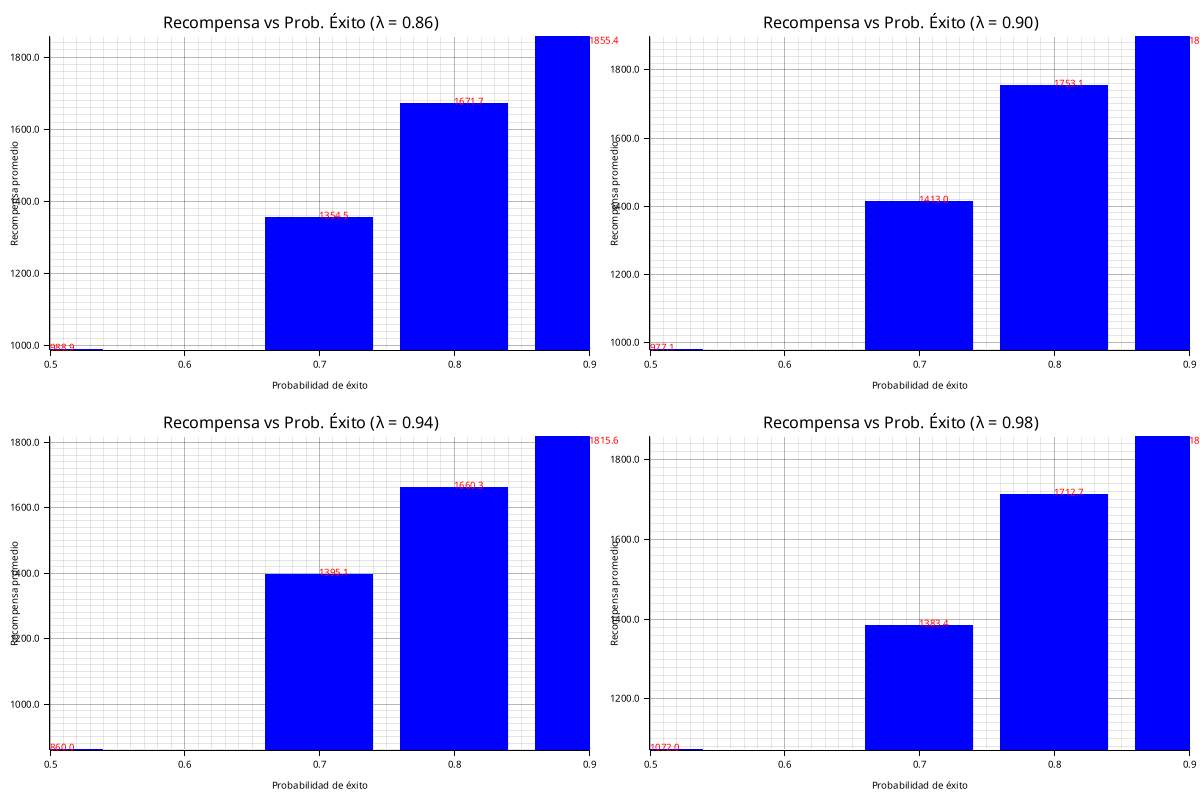
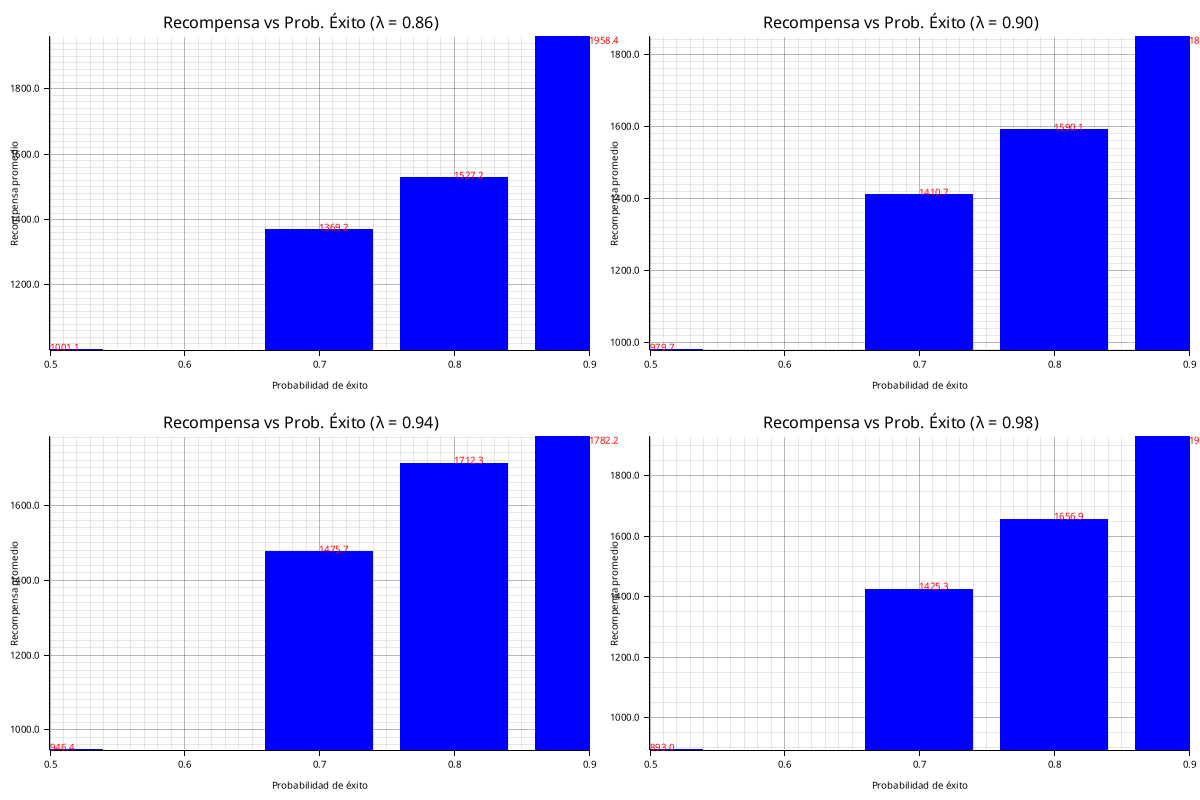
feat: :sparkles: Finalizado falta Comentar

diff --git a/src/main.rs b/src/main.rs
@@ -11,8 +11,8 @@ mod transition_matrices;
 
 use config::obtener_recompensas;
 use mdp_model::value_iteration;
-use plot_utils::{graficar_resultados_finales, leer_recompensas_csv};
-use robustness::evaluar_robustez;
+use plot_utils::{graficar_recompensas_barras, graficar_resultados_finales, leer_recompensas_csv};
+use robustness::{construir_modelo_ruido, MODELOS_ROBUSTEZ};
 use simulation::{ejecutar_simulacion, simulacion_1000_pasos};
 use transition_matrices::guardar_matrices_transicion_csv;
 
@@ -21,26 +21,19 @@ async fn main() {
     let factores_landa = vec![0.86, 0.90, 0.94, 0.98];
     let probabilidades_exito = vec![0.5, 0.7, 0.8, 0.9];
 
-    let mut graficos_robustez = vec![];
     let mut resumen_1000_pasos = vec![];
-
-    let mut resumen_recompensas = vec![]; // Añade esta línea
+    let mut politicas_optimas = vec![]; // Para guardar las políticas óptimas
     let mut recompensas_map = obtener_recompensas();
 
     for &landa in &factores_landa {
-        // --- Todo esto debe estar dentro del ciclo de landa ---
         println!("\n=== Ejecutando Value Iteration para λ = {:.2} ===", landa);
         println!("Resultados de simulaciones de 1000 pasos:");
         println!("----------------------------------------");
         let (valores, politica) = value_iteration(landa, Some(0.001), None);
+
         for &prob in &probabilidades_exito {
             let (metas, peligros, recompensa) = simulacion_1000_pasos(&politica, 1000, prob);
-            // Guarda en ambos vectores
-
-            // Guardamos en ambos vectores manteniendo consistencia
-            let dato = (landa, prob, recompensa);
-            resumen_1000_pasos.push(dato);
-            resumen_recompensas.push(dato);
+            resumen_1000_pasos.push((landa, prob, recompensa));
 
             println!(
                 "λ={:.2} - Prob éxito {:.0}% Recompensa: {:.2} (Meta: {}, Peligros: {})",
@@ -50,7 +43,6 @@ async fn main() {
                 metas,
                 peligros
             );
-            resumen_1000_pasos.push((landa, prob, recompensa));
         }
         println!("\nValor de los estados:");
         let mut keys: Vec<_> = valores.keys().collect();
@@ -91,12 +83,51 @@ async fn main() {
         println!("\n→ Iniciando simulación visual (siguiendo política óptima)...");
         ejecutar_simulacion(&politica, 100, &mut recompensas_map, landa).await;
 
-        // Evaluar robustez
-        let resultados = evaluar_robustez(&politica, landa);
-        graficos_robustez.push((landa, resultados));
+        // Guardar política para evaluación de robustez
+        politicas_optimas.push((landa, politica.clone()));
     }
 
-    // Guardar CSV de simulación real
+    // === EVALUACIÓN DE ROBUSTEZ CON MODELOS ESPECÍFICOS ===
+    println!("\n=== EVALUANDO ROBUSTEZ CON MODELOS ESPECÍFICOS ===");
+    println!("Evaluando con: (10%,80%,10%), (5%,90%,5%), (15%,70%,15%), (25%,50%,25%)");
+
+    // Evaluar robustez para cada política óptima
+    for (lambda, _politica_base) in &politicas_optimas {
+        println!("\n--- Evaluación robustez λ={:.2} ---", lambda);
+
+        for (izq, centro, der) in MODELOS_ROBUSTEZ.iter() {
+            let modelo_ruido = construir_modelo_ruido(*izq, *centro, *der);
+            let (_valores, politica_adaptada) =
+                value_iteration(*lambda, Some(0.001), Some(&modelo_ruido));
+
+            // Simular 1000 pasos con la política adaptada
+            let (metas, peligros, _recompensa) =
+                simulacion_1000_pasos(&politica_adaptada, 1000, *centro);
+
+            println!(
+                "Modelo ({:.0}%,{:.0}%,{:.0}%): {} metas, {} peligros",
+                izq * 100.0,
+                centro * 100.0,
+                der * 100.0,
+                metas,
+                peligros
+            );
+        }
+    }
+
+    // === GUARDADO DE DATOS Y GRÁFICOS ===
+    println!("\n=== GENERANDO GRÁFICOS Y GUARDANDO DATOS ===");
+
+    // Guardar los datos de simulaciones de 1000 pasos en CSV
+    experimentos::guardar_recompensas_csv(&resumen_1000_pasos, "datos_1000_pasos.csv")
+        .expect("Error guardando datos de 1000 pasos");
+
+    // Generar gráfico de barras para simulaciones de 1000 pasos
+    if let Err(e) = graficar_recompensas_barras(&resumen_1000_pasos) {
+        eprintln!("Error al generar gráfico de barras: {:?}", e);
+    }
+
+    // Guardar CSV de simulación más completa usando experimentos
     experimentos::simular_y_guardar_csv(
         &factores_landa,
         &probabilidades_exito,
@@ -105,23 +136,10 @@ async fn main() {
         "resultados_simulacion.csv",
     );
 
-    // Guardar CSV - versión optimizada
-    experimentos::guardar_recompensas_csv(&resumen_recompensas, "resultados_simulacion_1000.csv")
-        .expect("Error al guardar CSV");
-
-    // Leer CSV y graficar usando esos datos reales
-    let resumen_recompensas = leer_recompensas_csv("resultados_simulacion.csv");
-
-    // Leer CSV y graficar usando esos datos reales
-    let resumen_recompensas_1000 = leer_recompensas_csv("resultados_simulacion_1000.csv");
-
-    // Graficar los resultados en barras
-    if let Err(e) = plot_utils::graficar_recompensas_barras(&resumen_recompensas_1000) {
-        eprintln!("Error al graficar barras: {:?}", e);
-    }
-
-    if let Err(e) = graficar_resultados_finales(&graficos_robustez, &resumen_recompensas) {
-        eprintln!("Error al graficar resultados: {:?}", e);
+    // Leer CSV y generar gráficos finales de robustez
+    let resumen_recompensas_csv = leer_recompensas_csv("resultados_simulacion.csv");
+    if let Err(e) = graficar_resultados_finales(&resumen_recompensas_csv) {
+        eprintln!("Error al graficar resultados finales: {:?}", e);
     }
 
     guardar_matrices_transicion_csv();

diff --git a/src/plot_utils.rs b/src/plot_utils.rs
@@ -23,49 +23,8 @@ pub fn leer_recompensas_csv(path: &str) -> Vec<(f64, f64, f64)> {
 }
 
 pub fn graficar_resultados_finales(
-    graficos_robustez: &Vec<(f64, Vec<(String, usize)>)>,
     resumen_recompensas: &Vec<(f64, f64, f64)>,
 ) -> Result<(), Box<dyn std::error::Error>> {
-    // === Primer gráfico: robustez ===
-    let root = BitMapBackend::new("robustez_politicas.png", (960, 640)).into_drawing_area();
-    root.fill(&WHITE)?;
-
-    let n = graficos_robustez.len();
-    let cols = 2;
-    let rows = (n as f64 / cols as f64).ceil() as usize;
-    let areas = root.split_evenly((rows, cols));
-
-    for (i, (landa, resultados)) in graficos_robustez.iter().enumerate() {
-        if i >= areas.len() {
-            break;
-        }
-        let area = &areas[i];
-        let etiquetas: Vec<String> = resultados.iter().map(|r| r.0.clone()).collect();
-        let cambios: Vec<usize> = resultados.iter().map(|r| r.1).collect();
-        let max_val = *cambios.iter().max().unwrap_or(&0) as i32;
-
-        let mut chart = ChartBuilder::on(area)
-            .caption(format!("λ = {:.2}", landa), ("sans-serif", 20))
-            .margin(10)
-            .x_label_area_size(30)
-            .y_label_area_size(30)
-            .build_cartesian_2d(0..etiquetas.len() as i32, 0..(max_val + 1))?;
-
-        chart.configure_mesh().x_labels(5).draw()?;
-        chart
-            .configure_mesh()
-            .x_desc("Nivel de ruido")
-            .y_desc("Cambios en política")
-            .draw()?;
-
-        chart.draw_series(cambios.iter().enumerate().map(|(i, val)| {
-            Rectangle::new(
-                [(i as i32, 0), ((i + 1) as i32, *val as i32)],
-                BLUE.mix(0.5).filled(),
-            )
-        }))?;
-    }
-
     // === Tercer gráfico: recompensa media según lambda y éxito ===
     let root3 = BitMapBackend::new("recompensa_media.png", (800, 500)).into_drawing_area();
     root3.fill(&WHITE)?;

diff --git a/src/robustness.rs b/src/robustness.rs
@@ -1,12 +1,11 @@
-use crate::mdp_model::value_iteration;
 use std::collections::HashMap;
 
-// Modelos de ruido alternativos
-const MODELOS_RUIDO: &[(f64, f64, f64)] = &[
-    (0.1, 0.8, 0.1),
-    (0.05, 0.9, 0.05),
-    (0.15, 0.7, 0.15),
-    (0.25, 0.5, 0.25),
+// Modelos de robustez específicos para evaluación
+pub const MODELOS_ROBUSTEZ: &[(f64, f64, f64)] = &[
+    (0.1, 0.8, 0.1),   // (10%, 80%, 10%)
+    (0.05, 0.9, 0.05), // (5%, 90%, 5%)
+    (0.15, 0.7, 0.15), // (15%, 70%, 15%)
+    (0.25, 0.5, 0.25), // (25%, 50%, 25%)
 ];
 
 pub fn construir_modelo_ruido(
@@ -46,36 +45,4 @@ pub fn construir_modelo_ruido(
     }
 
     modelo
-}
-
-pub fn evaluar_robustez(
-    politica_base: &HashMap<String, String>,
-    landa: f64,
-) -> Vec<(String, usize)> {
-    let mut resultados = Vec::new();
-
-    for (izq, centro, der) in MODELOS_RUIDO.iter() {
-        let porcentaje_exito = (*centro * 100.0) as usize;
-        let etiqueta = format!(
-            "{}% éxito ({}% L/R)",
-            porcentaje_exito,
-            (*izq * 100.0) as usize
-        );
-        let modelo_ruido = construir_modelo_ruido(*izq, *centro, *der);
-
-        // Usar umbral más estricto
-        let (_, politica_adaptada) = value_iteration(landa, Some(1e-6), Some(&modelo_ruido));
-
-        let cambios = politica_base
-            .iter()
-            .filter(|(estado, accion)| match politica_adaptada.get(*estado) {
-                Some(a) => a != *accion,
-                None => true,
-            })
-            .count();
-
-        resultados.push((etiqueta, cambios));
-    }
-
-    resultados
 }
